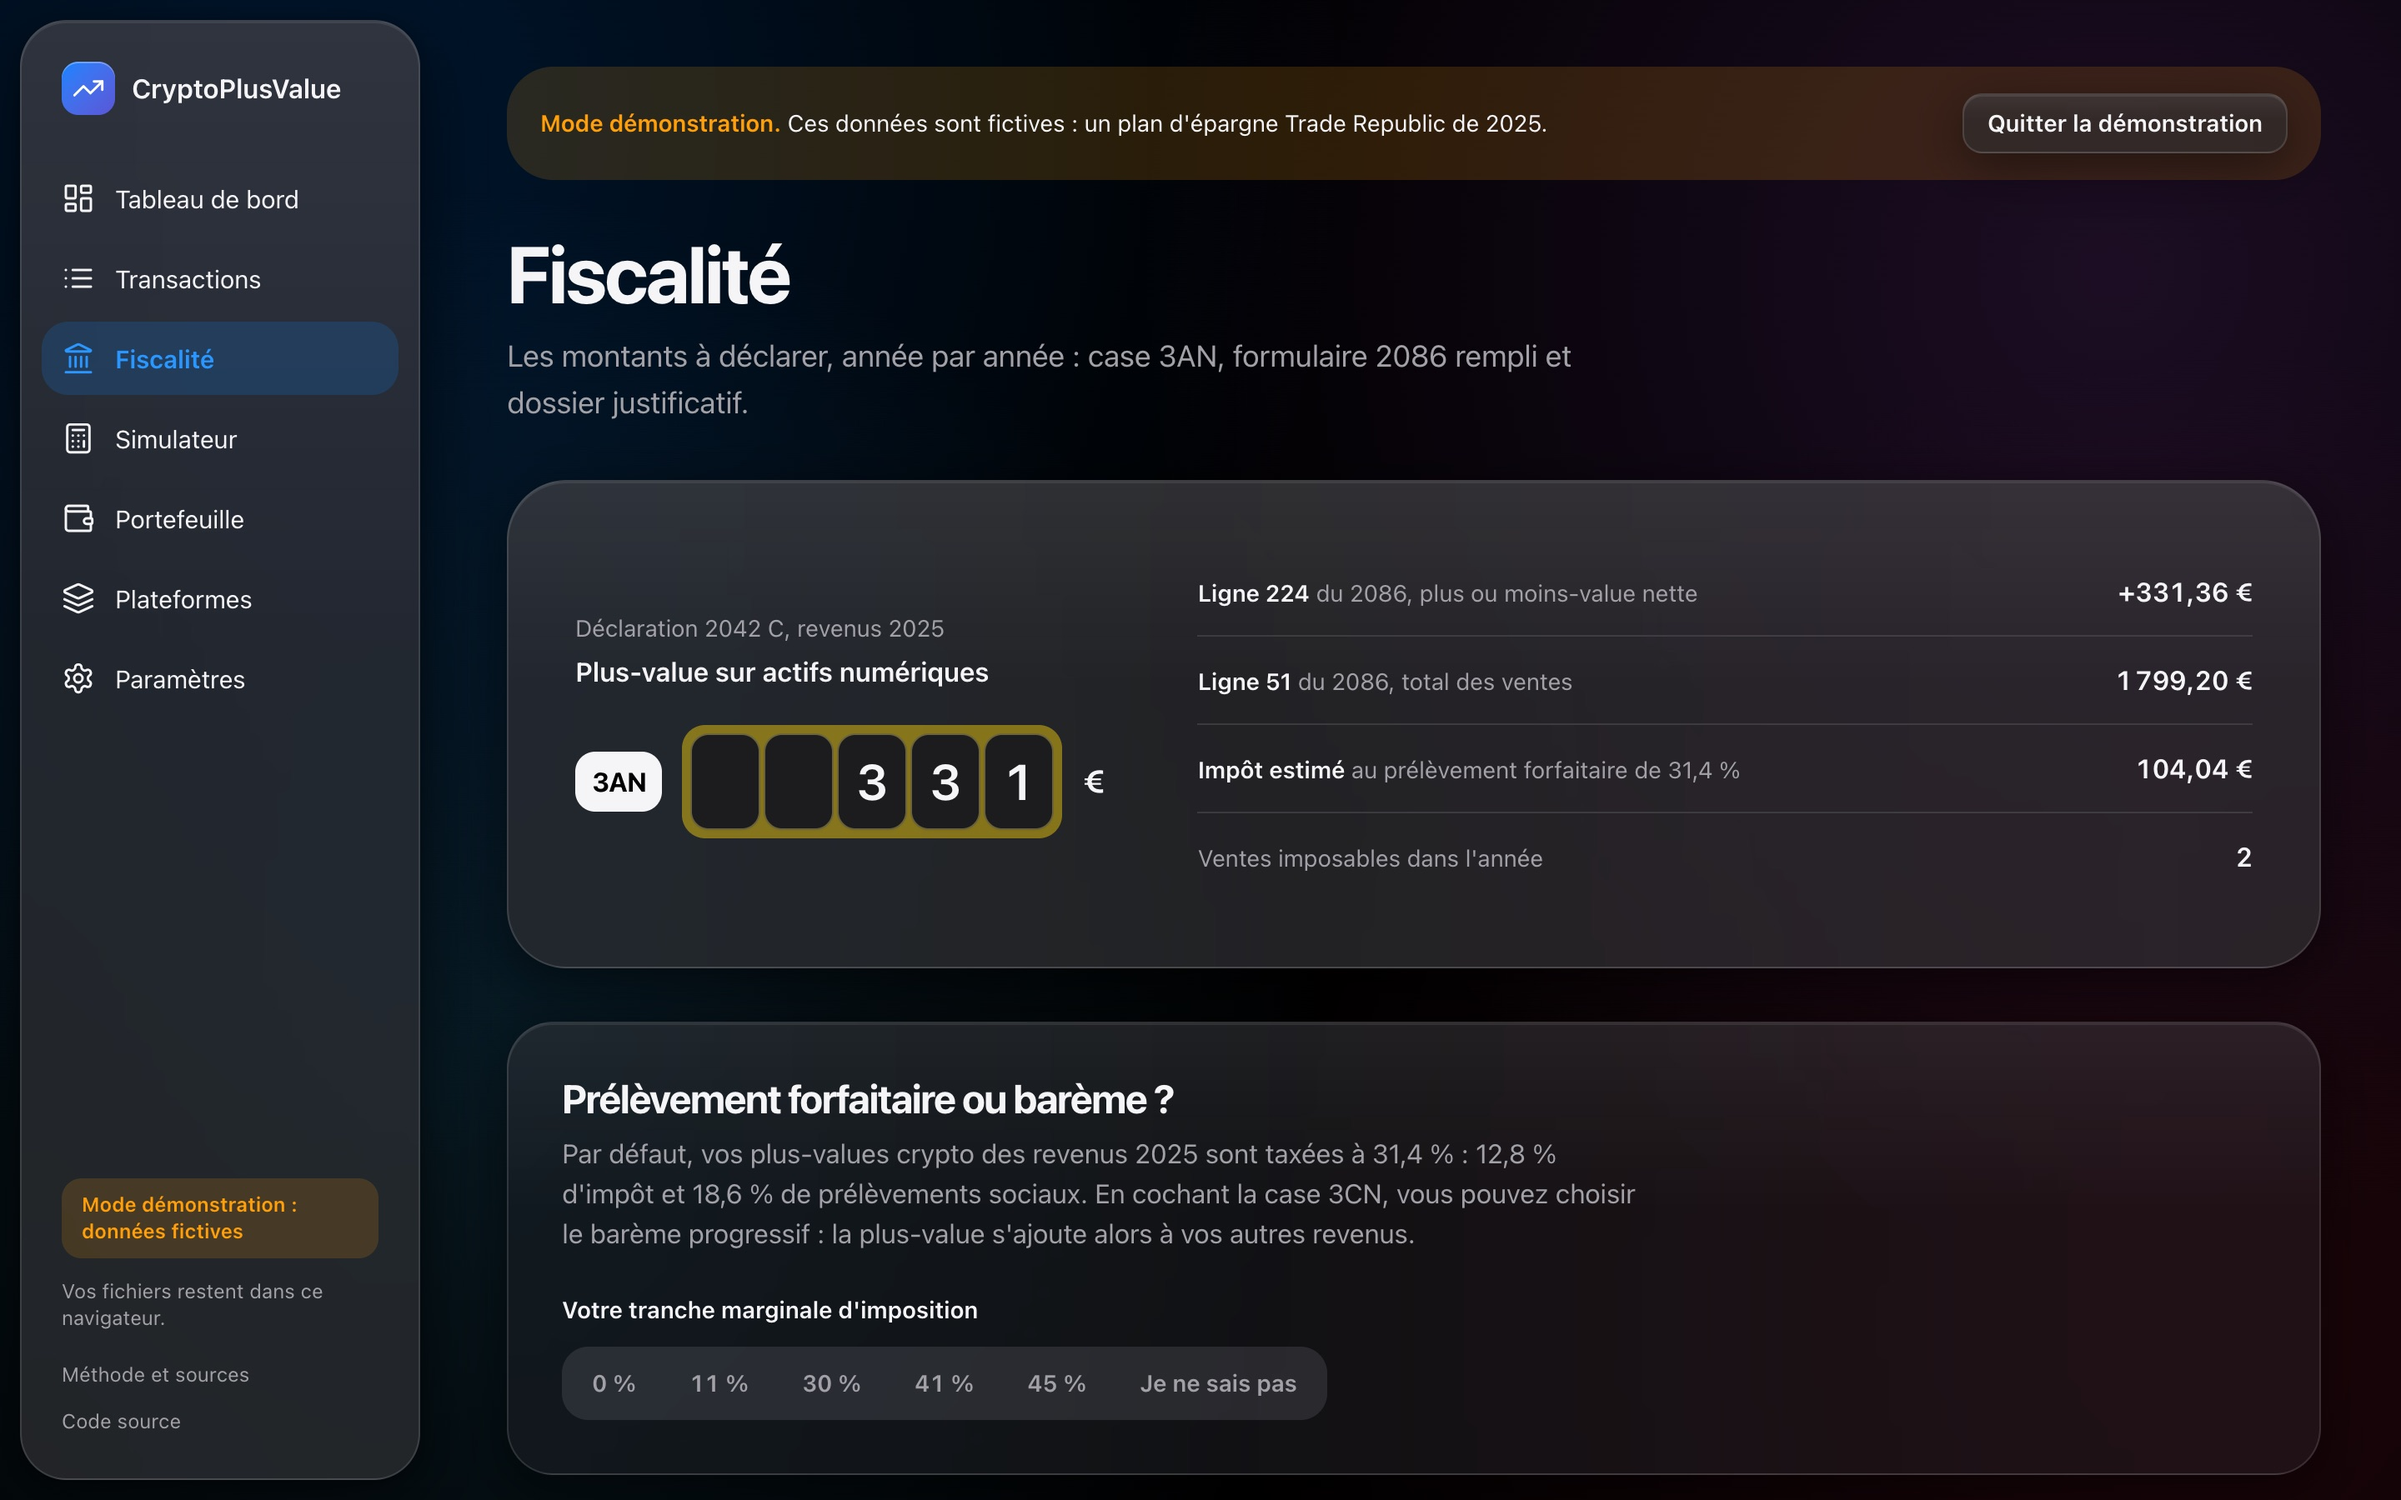
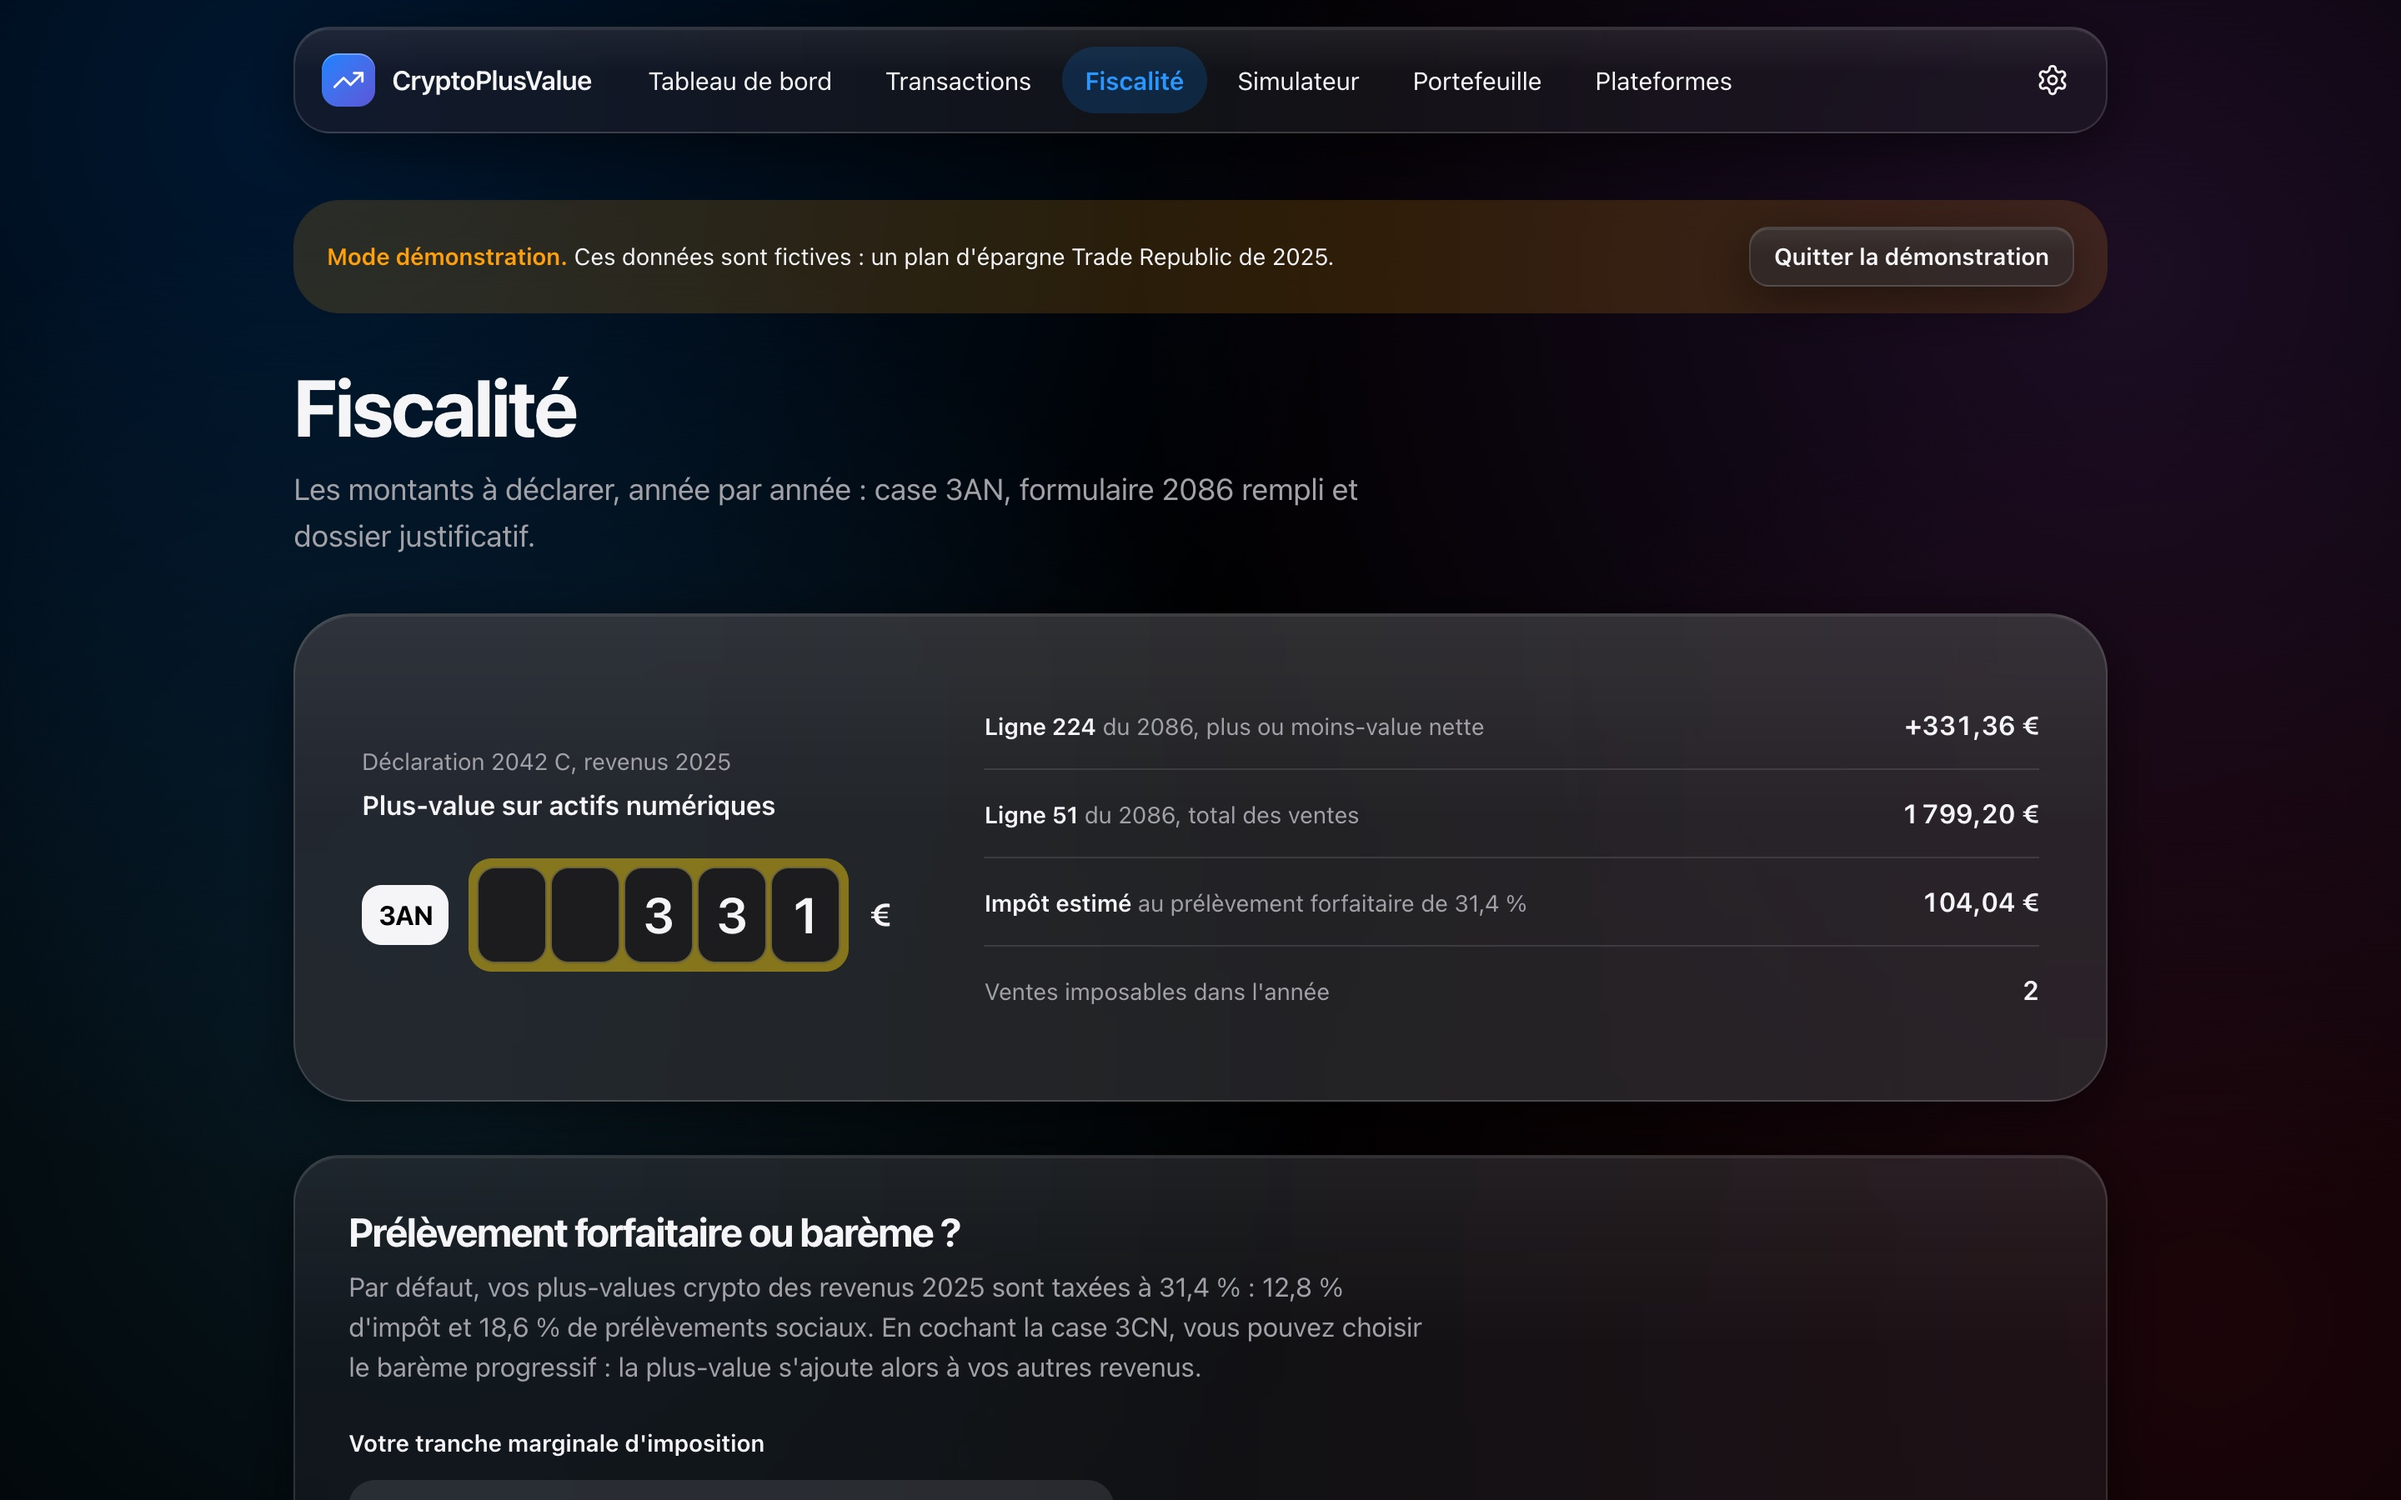
Navigation en haut sur ordinateur, à la place de la barre latérale (#29)

diff --git a/app/components/AppTopBar.vue b/app/components/AppTopBar.vue
@@ -1,7 +1,15 @@
 <script setup lang="ts">
-/** En-tête des petits écrans : la marque, et le rappel du mode démonstration. */
+/**
+ * Barre du haut, en verre, qui reste visible au défilement. Sur ordinateur, elle porte la
+ * navigation : la marque, les sections, et les paramètres à droite. Sur téléphone, la marque
+ * et le rappel du mode démonstration ; les sections sont dans la barre d'onglets du bas.
+ */
 const store = usePortfolioStore()
+const route = useRoute()
 const scrolled = ref(false)
+
+const sections = NAVIGATION.filter((item) => item.to !== '/parametres')
+const settings = NAVIGATION.find((item) => item.to === '/parametres')
 
 function onScroll() {
   scrolled.value = window.scrollY > 8
@@ -15,23 +23,63 @@ onBeforeUnmount(() => window.removeEventListener('scroll', onScroll))
 </script>
 
 <template>
-  <header class="sticky top-0 z-30 px-3 pt-[max(0.75rem,env(safe-area-inset-top))] lg:hidden">
+  <header
+    class="sticky top-0 z-30 mx-auto max-w-[72rem] px-3 pt-[max(0.75rem,env(safe-area-inset-top))] sm:px-8 lg:pt-4"
+  >
+    <!-- Mêmes marges que le contenu : la barre s'aligne sur les cartes de la page. -->
     <div
-      class="flex h-14 items-center justify-between gap-3 rounded-[22px] px-4 transition-[background,box-shadow,backdrop-filter] duration-300 ease-ios"
+      class="flex h-14 items-center gap-3 rounded-[22px] px-4 transition-[background,box-shadow,backdrop-filter] duration-300 ease-ios sm:px-3 lg:h-16 lg:gap-4"
       :class="scrolled ? 'glass-floating' : 'glass'"
     >
-      <NuxtLink to="/" class="flex items-center gap-2.5 font-semibold tracking-tight">
+      <NuxtLink
+        to="/"
+        class="flex shrink-0 items-center gap-2.5 rounded-control font-semibold tracking-tight sm:px-1"
+      >
         <span
-          class="flex size-7 items-center justify-center rounded-[9px] bg-linear-to-br from-[#0a84ff] to-[#5856d6] text-white shadow-[inset_0_1px_0_rgb(255_255_255/0.3)]"
+          class="flex size-7 items-center justify-center rounded-[9px] bg-linear-to-br from-[#0a84ff] to-[#5856d6] text-white shadow-[inset_0_1px_0_rgb(255_255_255/0.3)] lg:size-8 lg:rounded-[10px]"
           aria-hidden="true"
         >
           <AppIcon name="trend" class="size-4" />
         </span>
         CryptoPlusValue
       </NuxtLink>
+
+      <nav aria-label="Navigation principale" class="hidden min-w-0 flex-1 lg:block">
+        <ul class="flex items-center gap-1">
+          <li v-for="item in sections" :key="item.to">
+            <NuxtLink
+              :to="item.to"
+              class="flex min-h-10 items-center rounded-full px-3 text-[15px] whitespace-nowrap transition-colors duration-200 xl:px-3.5"
+              :class="
+                route.path === item.to
+                  ? 'bg-accent-tint font-semibold text-link'
+                  : 'text-label hover:bg-field'
+              "
+            >
+              {{ item.label }}
+            </NuxtLink>
+          </li>
+          <li v-if="settings" class="ml-auto">
+            <NuxtLink
+              :to="settings.to"
+              class="flex size-10 items-center justify-center rounded-full transition-colors duration-200"
+              :class="
+                route.path === settings.to
+                  ? 'bg-accent-tint text-link'
+                  : 'text-label hover:bg-field'
+              "
+              :title="settings.label"
+            >
+              <AppIcon :name="settings.icon" />
+              <span class="sr-only">{{ settings.label }}</span>
+            </NuxtLink>
+          </li>
+        </ul>
+      </nav>
+
       <span
         v-if="store.demo"
-        class="rounded-full bg-warning-tint px-2.5 py-1 text-xs font-semibold text-warning"
+        class="ml-auto shrink-0 rounded-full bg-warning-tint px-2.5 py-1 text-xs font-semibold text-warning lg:hidden"
         >Démonstration</span
       >
     </div>

diff --git a/app/layouts/default.vue b/app/layouts/default.vue
@@ -1,7 +1,7 @@
 <script setup lang="ts">
 /**
- * Mise en page de toutes les pages : barre latérale sur ordinateur, barre d'onglets sur
- * téléphone. `?exemple` ouvre n'importe quelle page en mode démonstration ; sinon, les données
+ * Mise en page de toutes les pages : barre de navigation en haut sur ordinateur, barre
+ * d'onglets en bas sur téléphone. `?exemple` ouvre n'importe quelle page en mode démonstration ; sinon, les données
  * enregistrées dans ce navigateur sont relues, une fois la page affichée (avant, elles
  * différeraient de la page rendue par le serveur).
  */
@@ -28,16 +28,13 @@ onMounted(() => {
       Aller au contenu
     </a>
 
-    <AppSidebar />
     <AppTopBar />
 
-    <div class="lg:pl-64">
-      <main id="contenu" class="mx-auto max-w-[72rem] px-5 pt-6 pb-36 sm:px-8 lg:pt-10 lg:pb-16">
-        <DemoBanner />
-        <slot />
-      </main>
-      <AppFooter />
-    </div>
+    <main id="contenu" class="mx-auto max-w-[72rem] px-5 pt-6 pb-36 sm:px-8 lg:pt-10 lg:pb-16">
+      <DemoBanner />
+      <slot />
+    </main>
+    <AppFooter />
 
     <AppTabBar />
   </div>

diff --git a/app/utils/navigation.ts b/app/utils/navigation.ts
@@ -1,4 +1,4 @@
-/** Une section de l'application, dans la barre latérale et la barre d'onglets. */
+/** Une section de l'application, dans la barre du haut et la barre d'onglets. */
 export type NavItem = {
   to: string
   label: string
@@ -19,7 +19,7 @@ export const NAVIGATION: readonly NavItem[] = [
   { to: '/parametres', label: 'Paramètres', icon: 'settings' },
 ]
 
-/** Liens vers la documentation du dépôt, en bas de la navigation. */
+/** Liens vers la documentation du dépôt, dans le menu « Plus » du téléphone. */
 export const EXTERNAL_LINKS = [
   { href: docUrl('regles-fiscales'), label: 'Méthode et sources' },
   { href: REPOSITORY, label: 'Code source' },

diff --git a/app/pages/transactions.vue b/app/pages/transactions.vue
@@ -150,7 +150,7 @@ function exportCsv() {
 
       <div
         v-if="selected.size > 0"
-        class="glass-strong sticky top-20 z-20 flex flex-wrap items-center justify-between gap-3 rounded-card px-5 py-3 text-sm lg:top-6"
+        class="glass-strong sticky top-20 z-20 flex flex-wrap items-center justify-between gap-3 rounded-card px-5 py-3 text-sm lg:top-24"
       >
         <span class="font-semibold">
           {{ plural(selected.size, 'opération sélectionnée', 'opérations sélectionnées') }}

diff --git a/app/components/AppFooter.vue b/app/components/AppFooter.vue
@@ -6,7 +6,7 @@
       <p class="max-w-prose">
         CryptoPlusValue est un outil indépendant, sans lien avec l'administration fiscale. Ses
         résultats sont indicatifs et ne remplacent pas un conseil fiscal : vérifiez-les avant de
-        déclarer.
+        déclarer. Vos fichiers restent dans ce navigateur.
       </p>
       <p class="flex flex-wrap gap-x-6 gap-y-2">
         <a :href="docUrl('regles-fiscales')" class="hover:text-label hover:underline">

diff --git a/docs/design.md b/docs/design.md
@@ -93,8 +93,10 @@ Android. Rien à télécharger.
 
 ## Navigation
 
-- **Ordinateur et grande tablette** (1 024 px et plus) : barre latérale en verre, fixe, avec les
-  six sections et, en bas, le rappel que les fichiers restent dans le navigateur.
+- **Ordinateur et grande tablette** (1 024 px et plus) : barre de navigation en haut, en verre,
+  qui reste visible au défilement et devient plus opaque dès qu'on descend. La marque à gauche,
+  les six sections en libellés seuls (la section ouverte en pastille bleue), les paramètres en
+  icône à droite. Ses marges sont celles du contenu : elle s'aligne sur les cartes de la page.
 - **Téléphone et petite tablette** : barre d'onglets en verre en bas de l'écran, comme sur iOS,
   avec quatre onglets (Accueil, Opérations, Fiscalité, Simuler) et « Plus » pour le reste ; en
   haut, la marque et le rappel du mode démonstration. L'encoche et la barre d'accueil des iPhone

diff --git a/README.md b/README.md
@@ -50,8 +50,8 @@ Importez l'historique de vos plateformes, obtenez les montants à reporter, cess
   année, période, montant, points à vérifier), tri, ajout d'une opération absente des exports,
   modification, suppression, annulation et journal des corrections, export CSV.
 - **Une application en plusieurs pages** (tableau de bord, transactions, fiscalité,
-  simulateur, portefeuille, plateformes), avec une barre latérale sur ordinateur et une barre
-  d'onglets sur téléphone.
+  simulateur, portefeuille, plateformes), avec une barre de navigation en haut sur ordinateur et une
+  barre d'onglets sur téléphone.
 - **Un mode démonstration** avec un exemple fictif, clairement signalé, pour essayer sans
   fichier.
 

diff --git a/CHANGELOG.md b/CHANGELOG.md
@@ -4,6 +4,11 @@ Les changements notables, du plus récent au plus ancien. Chaque entrée renvoie
 
 ## 9 octobre 2026
 
+### Navigation en haut sur ordinateur
+
+- La barre latérale laisse place à une barre de navigation en haut, en verre, alignée sur le
+  contenu : sections en libellés, paramètres en icône. Sur téléphone, les onglets restent en bas.
+
 ### Phase 5 (deuxième partie) : rapports
 
 - Classeur Excel pour le comptable (résumé, cessions de l'année, opérations, points à vérifier),
